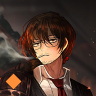
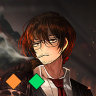
badge updates

Changed region(s): [[0.2812, 0.75, 0.4688, 0.9375]]

diff --git a/index.md b/index.md
@@ -48,7 +48,7 @@ Finally, let it be emphasized that this is __not__ an autobattle tier list. Know
 
 ## Rankings
 
-Units have badges that denote certain traits. From a technical perspective, the blue, red, orange and green badges are not an indicator of greater power. They imply a sinner has more requirements to earn their rank.
+Units have badges that denote certain traits. The blue, red, orange and green badges are not an indicator of greater power. They imply a sinner has more requirements to earn their rank.
 
 __Blue:__ This unit benefits significantly from technical prowess. They may emphasize tempo control, resource management or clash redirection, causing them to degrade under autobattle and often excel when getting the first action.
 
@@ -608,7 +608,8 @@ The adverse chart represents Hong Lu without the additional coin power on S2 and
 
 \+ Serviceable rolls and a mildly clunky kit make her playable but generally unremarkable  
 \+ Notably high base power on her S2 and S3, lessening dependence on RNG in low sanity scenarios  
-\+ Gains a slew of kit effects and roll bonuses at UT4
+\+ Gains a slew of kit effects and roll bonuses at UT4  
+\+ Notable synergy with BL Yi Sang's support passive  
 
 \- S3 effects are restrictive due to lacking count for both her bleed and poise, requiring additional effort to build around for maximization  
 \- Passive theoretically has a powerful tempo, but finding situations that favour countering over clashing requires creativity  
